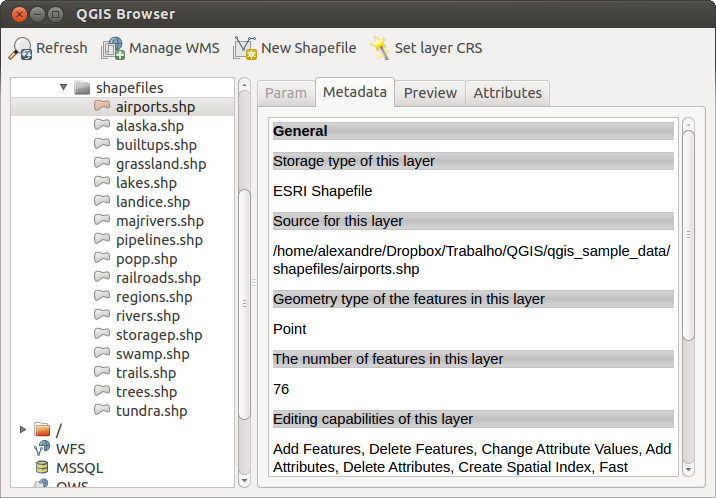
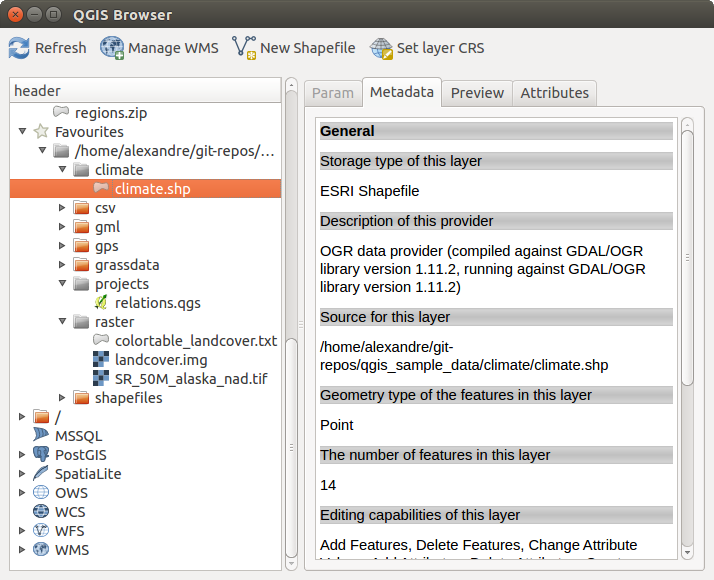
Users Manual - Browser Section Update

diff --git a/source/docs/user_manual/qgis_browser/qgis_browser.rst b/source/docs/user_manual/qgis_browser/qgis_browser.rst
@@ -14,17 +14,6 @@ or MS SQL Spatial) and WMS/WFS connections. You can also view your GRASS data
 
 .. index:: Browse_Maps, Import_Maps
 
-.. _figure_browser_standalone_metadata:
-
-.. only:: html
-
-   **Figure browser 1:**
-
-.. figure:: /static/user_manual/qgis_browser/browser_standalone_metadata.png
-   :align: center
-
-   |qg| browser as a stand alone application |nix|
-
 Use the |qg| Browser to preview your data. The drag-and-drop function makes it easy
 to get your data into the map view and the map legend.
 
@@ -42,7 +31,7 @@ to get your data into the map view and the map legend.
    For more information see :ref:`label_projections`.
 #. Click on |mActionZoomFullExtent| :sup:`Zoom Full` to make the layers
    visible.
-
+   
 There is a second browser available under :menuselection:`Settings --> Panels`.
 This is handy when you need to move files or layers between locations.
 
@@ -55,6 +44,17 @@ This is handy when you need to move files or layers between locations.
 #. Select a file with the left mouse button. Now you can use the
    |mActionAdd|:sup:`Add Selected Layers` icon to add it into the current project.
 
+.. _figure_browser_panels:
+
+.. only:: html
+
+   **Figure browser 1:**
+
+.. figure:: /static/user_manual/qgis_browser/browser_panels.png
+   :align: center
+
+   |qg| Browser panels side-by-side
+
 |qg| automatically looks for the coordinate reference system (CRS) and zooms to
 the layer extent if you work in a blank |qg| project. If there are already
 files in your project, the file will just be added, and in the case that it has the same
@@ -63,10 +63,10 @@ extent, you must first right-click on the layer and choose
 :guilabel:`Set Project CRS from Layer`. Then choose
 :guilabel:`Zoom to Layer Extent`.
 
-The |mActionFilter|:sup:`Filter files` function works on a directory level.
-Browse to the folder where you want to filter files and enter a search word
-or wildcard. The Browser will show only matching filenames -- other data
-won't be displayed.
+The |mActionFilter|:sup:`Filter browser` function allows you to search for
+specific data. Enter a search word or wildcard and the browser will show
+only matching filenames or parent folders -- other data or folders
+won't be displayed. See the Browser Panel(2) example on the _figure_browser_panels.
 
 It's also possible to run the |qg| Browser as a stand-alone application.
 
@@ -75,6 +75,17 @@ It's also possible to run the |qg| Browser as a stand-alone application.
 * |nix| Type in "qbrowser" at a command prompt.
 * |win| Start the |qg| Browser using the Start menu or desktop shortcut.
 * |osx| The |qg| Browser is available from your Applications folder.
+
+.. _figure_browser_standalone_metadata:
+
+.. only:: html
+
+   **Figure browser 2:**
+
+.. figure:: /static/user_manual/qgis_browser/browser_standalone_metadata.png
+   :align: center
+
+   |qg| browser as a stand alone application
 
 In figure_browser_standalone_metadata_, you can see the enhanced functionality
 of the stand-alone |qg| Browser. The :guilabel:`Param` tab provides the details of
